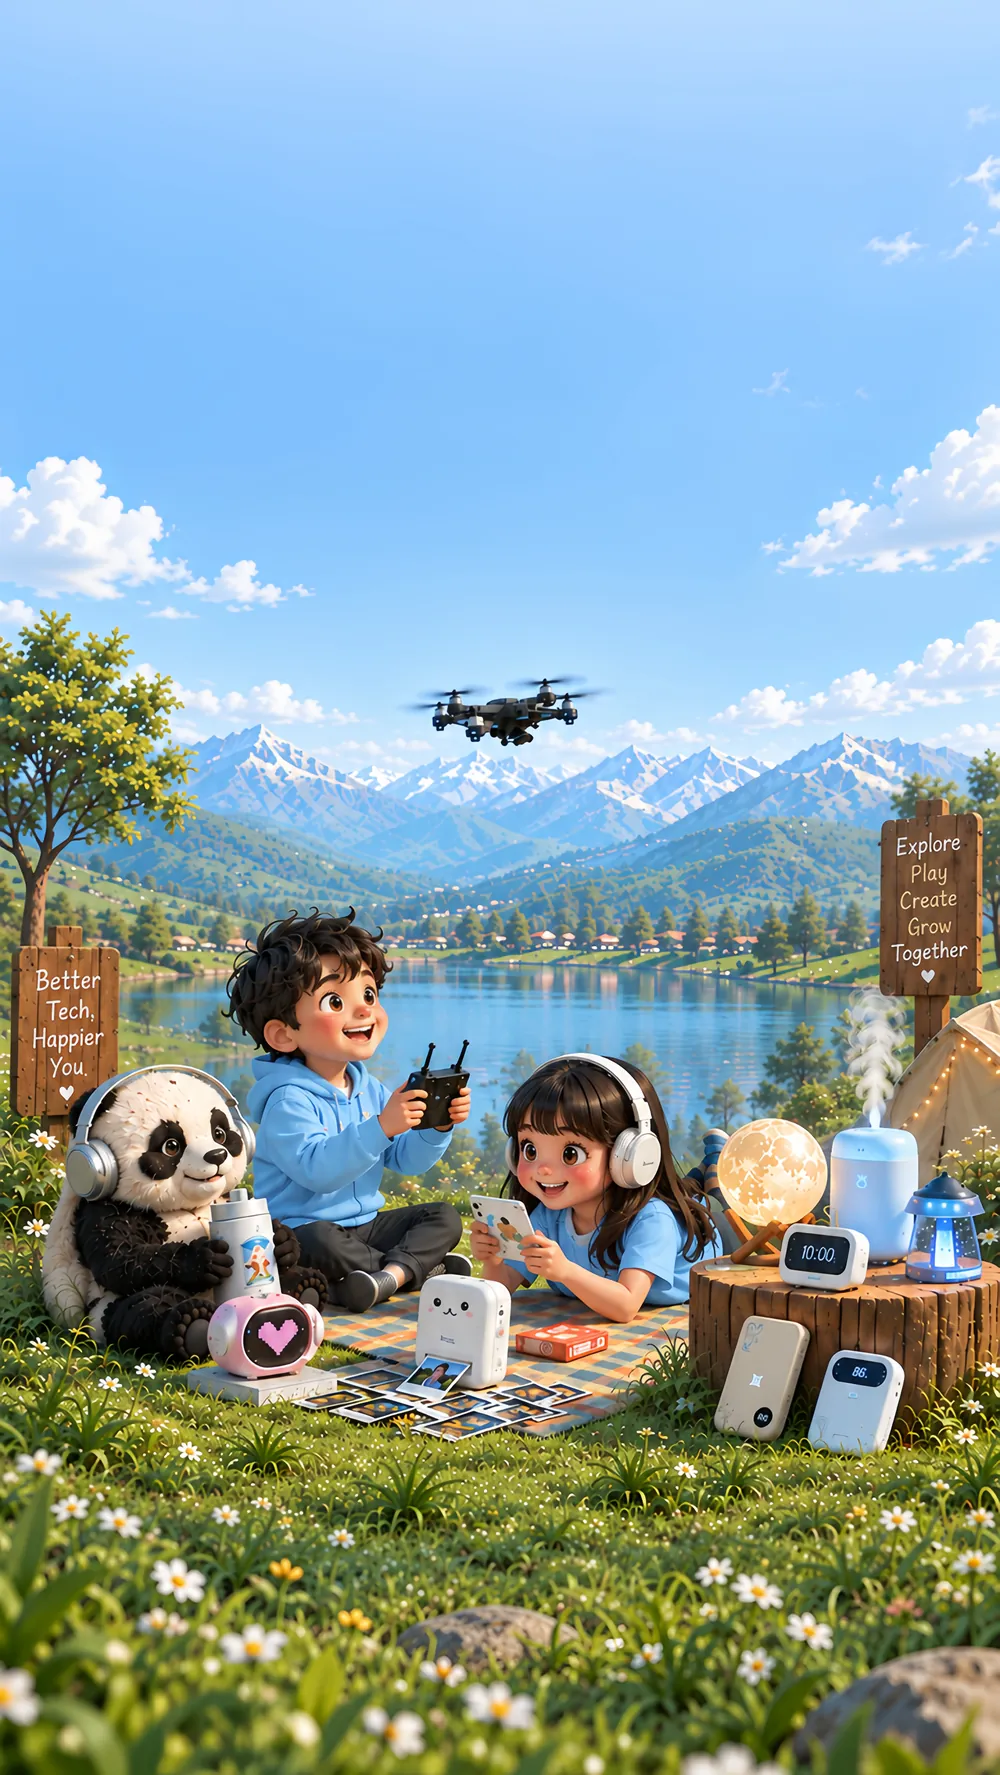
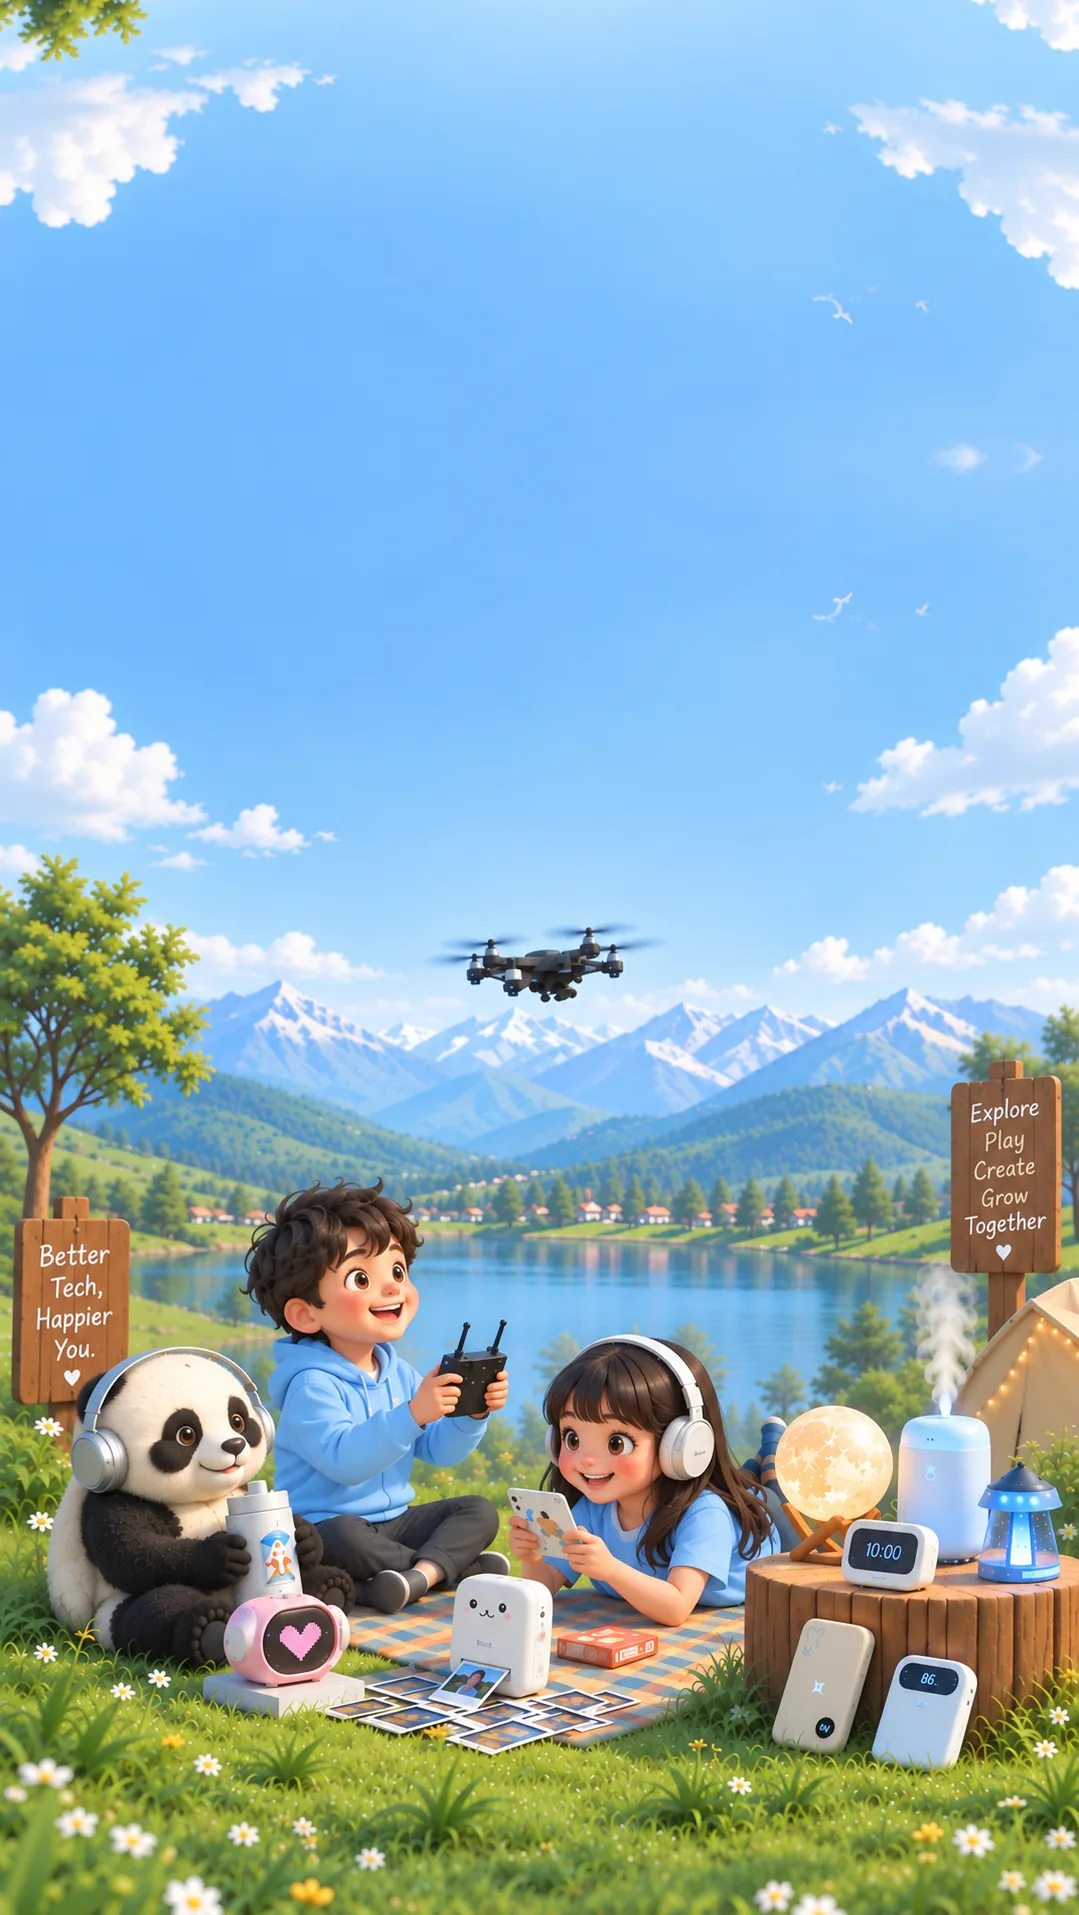
Add files via upload

diff --git a/app/components/layout/Footer.tsx b/app/components/layout/Footer.tsx
@@ -198,8 +198,11 @@ export default function Footer() {
       {/* 🌊 শীর্ষভাগে ট্রু ট্রান্সপারেন্ট ক্লিপ-পাথ ভেক্টর ডেফিনিশন (SVG Defs) */}
       <svg width="0" height="0" className="absolute pointer-events-none" aria-hidden="true">
         <defs>
-          <clipPath id="footer-top-wave-clip" clipPathUnits="objectBoundingBox">
+          <clipPath id="footer-top-wave-clip-desktop" clipPathUnits="objectBoundingBox">
             <path d="M 0,0.038 C 0.18,0.068 0.35,0.015 0.55,0.015 C 0.72,0.015 0.88,0.065 1,0.035 L 1,1 L 0,1 Z" />
+          </clipPath>
+          <clipPath id="footer-top-wave-clip-mobile" clipPathUnits="objectBoundingBox">
+            <path d="M 0,0.02 C 0.25,0.007 0.75,0.007 1,0.02 L 1,1 L 0,1 Z" />
           </clipPath>
         </defs>
       </svg>
@@ -208,46 +211,61 @@ export default function Footer() {
       <div className="relative w-full select-none pointer-events-none bg-transparent">
         
         {/* ছবির র্যাপার — শীর্ষভাগে আসল বডি ব্যাকগ্রাউন্ড স্বয়ংক্রিয়ভাবে প্রকাশ পাবে */}
+        {/* মোবাইল ইমেজ (লম্বা কম্পোজিশন) — নিজস্ব হালকা ক্লিপ-পাথ + সিমলেস-এজ ফিক্স (GPU লেয়ার ফোর্স করে
+            যাতে ক্লিপ-কার্ভ বরাবর কোনো দৃশ্যমান জোড়াতালি/সেলাই রেখা না দেখা যায়) */}
         <div
-          className="relative w-full"
+          className="relative aspect-[1000/1775] w-full overflow-hidden md:hidden"
           style={{
-            clipPath: 'url(#footer-top-wave-clip)',
-            WebkitClipPath: 'url(#footer-top-wave-clip)',
+            clipPath: 'url(#footer-top-wave-clip-mobile)',
+            WebkitClipPath: 'url(#footer-top-wave-clip-mobile)',
+            transform: 'translateZ(0)',
+            WebkitBackfaceVisibility: 'hidden',
+            isolation: 'isolate',
           }}
         >
-          {/* মোবাইল ইমেজ (লম্বা কম্পোজিশন) */}
-          <div className="relative aspect-[1000/1775] w-full md:hidden">
-            <Image
-              src="/footer-illustration-mobile.webp"
-              alt="Vangcur Gadgets Lifestyle"
-              fill
-              sizes="100vw"
-              className="object-cover object-bottom"
-              priority={false}
-            />
-          </div>
+          <Image
+            src="/footer-illustration-mobile.webp"
+            alt="Vangcur Gadgets Lifestyle"
+            fill
+            sizes="100vw"
+            className="object-cover object-bottom"
+            priority={false}
+          />
+        </div>
 
-          {/* ডেস্কটপ ইমেজ (চওড়া কম্পোজিশন) */}
-          <div className="relative hidden aspect-[2000/1333] w-full md:block">
-            <Image
-              src="/footer-illustration-desktop.webp"
-              alt="Vangcur Gadgets Lifestyle"
-              fill
-              sizes="100vw"
-              className="object-cover object-bottom"
-              priority={false}
-            />
-          </div>
+        {/* ডেস্কটপ ইমেজ (চওড়া কম্পোজিশন) — কার্ভ অপরিবর্তিত, শুধু সিমলেস-এজ ফিক্স যোগ হয়েছে */}
+        <div
+          className="relative hidden aspect-[2000/1333] w-full overflow-hidden md:block"
+          style={{
+            clipPath: 'url(#footer-top-wave-clip-desktop)',
+            WebkitClipPath: 'url(#footer-top-wave-clip-desktop)',
+            transform: 'translateZ(0)',
+            WebkitBackfaceVisibility: 'hidden',
+            isolation: 'isolate',
+          }}
+        >
+          <Image
+            src="/footer-illustration-desktop.webp"
+            alt="Vangcur Gadgets Lifestyle"
+            fill
+            sizes="100vw"
+            className="object-cover object-bottom"
+            priority={false}
+          />
         </div>
 
         {/* 🌊 ২. নিচের নিখুঁত কাটআউট ঢেউ (রেফারেন্স ছবির হুবহু ডাবল-পিক কার্ভ) */}
-        <div className="absolute inset-x-0 bottom-0 z-10 w-full overflow-hidden leading-none pointer-events-none">
+        <div
+          className="absolute inset-x-0 bottom-0 z-10 w-full overflow-hidden leading-none pointer-events-none"
+          style={{ transform: 'translate3d(0, 1px, 0)' }}
+        >
           <svg
             viewBox="0 0 1440 160"
             fill="none"
             xmlns="http://www.w3.org/2000/svg"
             className="w-full h-12 sm:h-20 md:h-28"
             preserveAspectRatio="none"
+            shapeRendering="geometricPrecision"
           >
             <path
               d="M0,110 C120,85 180,75 280,75 C420,75 580,142 760,142 C960,142 1120,88 1260,88 C1340,88 1390,96 1440,105 L1440,160 L0,160 Z"
@@ -388,6 +406,11 @@ export default function Footer() {
               <li>
                 <Link href="/account" prefetch={true} className={colLinkClass}>
                   {t('মাই প্রোফাইল')}
+                </Link>
+              </li>
+              <li>
+                <Link href="/account" prefetch={true} className={colLinkClass}>
+                  {t('লগইন')}
                 </Link>
               </li>
               <li>

diff --git a/app/search/SearchClient.tsx b/app/search/SearchClient.tsx
@@ -21,10 +21,20 @@ const MAX_SEARCH_LEN = 60;
 
 function SearchHeader({ query, onQueryChange }: { query: string; onQueryChange: (v: string) => void }) {
   const { t, lang } = useT();
+  const router = useRouter();
   const [value, setValue] = useState(query);
   const lastLimitToastRef = useRef(0);
 
   useEffect(() => { setValue(query); }, [query]);
+
+  const handleBackToHome = (e: React.MouseEvent) => {
+    e.preventDefault();
+    if (typeof window !== 'undefined' && window.history.length > 1) {
+      router.back();
+    } else {
+      router.replace('/');
+    }
+  };
 
   const handleChange = (rawVal: string) => {
     if (rawVal.length >= MAX_SEARCH_LEN) {
@@ -46,17 +56,27 @@ function SearchHeader({ query, onQueryChange }: { query: string; onQueryChange: 
 
   return (
     <div className="sticky top-[14px] z-[900] mx-2 mb-1.5 mt-[14px] max-[400px]:mx-1.5 sm:mx-3">
-      <nav className="navbar-glass relative z-[900] rounded-[35px] border border-white/60 bg-white/80 shadow-sh2 backdrop-blur-[8px]">
+      <nav className="navbar-glass relative z-[900] rounded-[35px] border border-white/70 bg-white/80 shadow-sh1 backdrop-blur-[10px]">
         <div className="mx-auto flex h-[62px] max-w-[1300px] items-center gap-2.5 px-3 sm:gap-3 sm:px-5">
           <Link
             href="/"
-            aria-label={t('হোম পেইজে যান')}
-            className="flex h-10 w-10 shrink-0 items-center justify-center rounded-full bg-brand-bg text-brand-light shadow-sm transition-colors duration-brand hover:bg-brand-light hover:text-white"
+            prefetch={true}
+            onClick={handleBackToHome}
+            aria-label={lang === 'en' ? 'Back to Home' : 'ফিরে যান'}
+            title={lang === 'en' ? 'Back to Home' : 'ফিরে যান'}
+            className="group flex shrink-0 items-center gap-1.5 min-[420px]:gap-2 rounded-full border border-border-base/70 bg-white/80 py-1.5 pl-2 pr-3 min-[420px]:pr-3.5 shadow-xs backdrop-blur-md transition-all duration-brand hover:border-brand-light hover:bg-brand-bg/40 active:scale-95 no-underline max-[400px]:pr-2 max-[400px]:pl-1.5"
           >
-            <svg width="19" height="19" viewBox="0 0 24 24" fill="none" stroke="currentColor" strokeWidth="2" strokeLinecap="round" strokeLinejoin="round">
-              <path d="M4 11.5 12 4l8 7.5" />
-              <path d="M6.5 10v9a1 1 0 0 0 1 1H10v-5.5h4V20h2.5a1 1 0 0 0 1-1v-9" />
-            </svg>
+            <div className="flex h-7 w-7 items-center justify-center rounded-full bg-brand-light text-white shadow-xs transition-transform duration-brand group-hover:scale-105">
+              <svg width="14" height="14" viewBox="0 0 24 24" fill="none" stroke="currentColor" strokeWidth="2.5" strokeLinecap="round" strokeLinejoin="round">
+                <path d="M19 12H5M12 19l-7-7 7-7" />
+              </svg>
+            </div>
+            <span className="hidden min-[420px]:inline font-body text-[13px] font-extrabold text-ink transition-colors duration-brand group-hover:text-brand-light">
+              {lang === 'en' ? 'Back to Home' : 'ফিরে যান'}
+            </span>
+            <span className="min-[420px]:hidden font-body text-[12px] font-extrabold text-ink transition-colors duration-brand group-hover:text-brand-light">
+              {lang === 'en' ? 'Back' : 'ফিরে যান'}
+            </span>
           </Link>
 
           <div className="relative flex-1">

diff --git a/lib/i18n/dictionary.ts b/lib/i18n/dictionary.ts
@@ -9,6 +9,7 @@ export const staticDictionary: Record<string, string> = {
   // Navigation & General
   'কুইক লিঙ্কস': 'Quick Links',
   'মাই প্রোফাইল': 'My Profile',
+  'লগইন': 'Login',
   'ট্র্যাক অর্ডার': 'Track Order',
   'হোম': 'Home',
   'ক্যাটাগরি': 'Categories',
